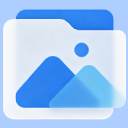
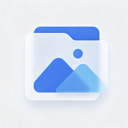
refactor: 更新

diff --git a/content.js b/content.js
@@ -1480,8 +1480,21 @@
     "mousedown",
     (e) => {
       if (e.button !== 1) return;
-      if (window.imgHidenSet === null) return;
-      // ★【修改2】阅兵模式下的中键由遮罩层事件处理，此处不干预
+      const isRedLight = window.imgHidenSet === null;
+
+      // 红灯状态下，hover和click逻辑上等同于middle
+      let effectiveZoomMode = zoomModeConfig;
+      if (
+        isRedLight &&
+        (zoomModeConfig === "hover" || zoomModeConfig === "click")
+      ) {
+        effectiveZoomMode = "middle";
+      }
+
+      // 红灯状态下，如果有效模式是关，直接返回（保留原生中键行为，如打开链接）
+      if (isRedLight && effectiveZoomMode === "off") return;
+
+      // 阅兵模式下的中键由遮罩层事件处理，此处不干预
       if (isParadeMode) return;
 
       const clone = getCloneAtPoint(e.clientX, e.clientY);
@@ -1494,26 +1507,67 @@
       }
 
       let targetEl = null;
-      imageControls.forEach((btn, el) => {
-        if (el._isZoomed) return;
-        const rect = el.getBoundingClientRect();
-        const margin = 10;
-        if (
-          e.clientX >= rect.left - margin &&
-          e.clientX <= rect.right + margin &&
-          e.clientY >= rect.top - margin &&
-          e.clientY <= rect.bottom + margin
-        ) {
-          targetEl = el;
+      if (isRedLight) {
+        // 红灯状态：动态遍历查找目标图片（因为此时 imageControls 被清空了）
+        const allEls = document.querySelectorAll(
+          'img, svg, .nopic-has-bg, [style*="background-image"]',
+        );
+        for (const el of allEls) {
+          if (
+            el._isZoomed ||
+            el.classList.contains("nopic-clone") ||
+            el.classList.contains("nopic-parade-clone")
+          )
+            continue;
+          const rect = el.getBoundingClientRect();
+          const margin = 10;
+          if (
+            e.clientX >= rect.left - margin &&
+            e.clientX <= rect.right + margin &&
+            e.clientY >= rect.top - margin &&
+            e.clientY <= rect.bottom + margin
+          ) {
+            const bg = window.getComputedStyle(el).backgroundImage;
+            const isTarget =
+              el.tagName === "IMG" ||
+              el.tagName === "SVG" ||
+              (bg && bg !== "none" && bg.includes("url"));
+            const hasText =
+              (el.tagName === "DIV" || el.tagName === "SPAN") &&
+              el.innerText != null &&
+              el.innerText.trim().length > 0;
+            if (isTarget && rect.width > 15 && rect.height > 15 && !hasText) {
+              targetEl = el;
+              break;
+            }
+          }
         }
-      });
+      } else {
+        // 绿灯状态：从控件记录中查找
+        imageControls.forEach((btn, el) => {
+          if (el._isZoomed) return;
+          const rect = el.getBoundingClientRect();
+          const margin = 10;
+          if (
+            e.clientX >= rect.left - margin &&
+            e.clientX <= rect.right + margin &&
+            e.clientY >= rect.top - margin &&
+            e.clientY <= rect.bottom + margin
+          ) {
+            targetEl = el;
+          }
+        });
+      }
 
-      if (targetEl && zoomModeConfig === "middle") {
+      if (targetEl && effectiveZoomMode === "middle") {
         e.preventDefault();
         e.stopPropagation();
+        // 红灯状态允许直接放大；绿灯状态按原逻辑判断
         const isHidden = targetEl.dataset.isHidden === "true";
         const shouldZoom =
-          hoverShowImgConfig || (!hoverShowImgConfig && !isHidden);
+          isRedLight ||
+          hoverShowImgConfig ||
+          (!hoverShowImgConfig && !isHidden);
         if (shouldZoom && !targetEl._isZoomed && !zoomCooldown) {
           const btn = imageControls.get(targetEl);
           const zoomBtn = imageZoomControls.get(targetEl);
@@ -1538,6 +1592,16 @@
     "auxclick",
     (e) => {
       if (e.button !== 1) return;
+      const isRedLight = window.imgHidenSet === null;
+
+      // 红灯状态下，hover和click逻辑上等同于middle
+      let effectiveZoomMode = zoomModeConfig;
+      if (
+        isRedLight &&
+        (zoomModeConfig === "hover" || zoomModeConfig === "click")
+      ) {
+        effectiveZoomMode = "middle";
+      }
 
       const clone = getCloneAtPoint(e.clientX, e.clientY);
       if (clone) {
@@ -1547,20 +1611,61 @@
       }
 
       let hitImage = false;
-      imageControls.forEach((btn, el) => {
-        const rect = el.getBoundingClientRect();
-        const margin = 10;
-        if (
-          e.clientX >= rect.left - margin &&
-          e.clientX <= rect.right + margin &&
-          e.clientY >= rect.top - margin &&
-          e.clientY <= rect.bottom + margin
-        ) {
-          hitImage = true;
+      if (isRedLight) {
+        // 红灯状态：动态遍历查找目标图片
+        const allEls = document.querySelectorAll(
+          'img, svg, .nopic-has-bg, [style*="background-image"]',
+        );
+        for (const el of allEls) {
+          if (
+            el.classList.contains("nopic-clone") ||
+            el.classList.contains("nopic-parade-clone")
+          )
+            continue;
+          const rect = el.getBoundingClientRect();
+          const margin = 10;
+          if (
+            e.clientX >= rect.left - margin &&
+            e.clientX <= rect.right + margin &&
+            e.clientY >= rect.top - margin &&
+            e.clientY <= rect.bottom + margin
+          ) {
+            const bg = window.getComputedStyle(el).backgroundImage;
+            const isTarget =
+              el.tagName === "IMG" ||
+              el.tagName === "SVG" ||
+              (bg && bg !== "none" && bg.includes("url"));
+            const hasText =
+              (el.tagName === "DIV" || el.tagName === "SPAN") &&
+              el.innerText != null &&
+              el.innerText.trim().length > 0;
+            if (isTarget && rect.width > 15 && rect.height > 15 && !hasText) {
+              hitImage = true;
+              break;
+            }
+          }
         }
-      });
+      } else {
+        imageControls.forEach((btn, el) => {
+          const rect = el.getBoundingClientRect();
+          const margin = 10;
+          if (
+            e.clientX >= rect.left - margin &&
+            e.clientX <= rect.right + margin &&
+            e.clientY >= rect.top - margin &&
+            e.clientY <= rect.bottom + margin
+          ) {
+            hitImage = true;
+          }
+        });
+      }
 
-      if (hitImage) {
+      // 红灯状态下且有效模式为中键，也需阻止超链接新标签页打开
+      if (
+        hitImage &&
+        (window.imgHidenSet !== null ||
+          (isRedLight && effectiveZoomMode === "middle"))
+      ) {
         e.preventDefault();
         e.stopPropagation();
       }
@@ -2212,19 +2317,39 @@
     settingsSubmenu
       .querySelector('[data-key="zoomPinMode"]')
       .classList.toggle("on", zoomPinModeConfig);
+    const hoverZoomBtn = settingsSubmenu.querySelector(
+      '.nopic-range-btn[data-zoom="hover"]',
+    );
     const clickZoomBtn = settingsSubmenu.querySelector(
       '.nopic-range-btn[data-zoom="click"]',
     );
-    if (clickZoomBtn)
-      clickZoomBtn.style.display = hoverShowImgConfig ? "none" : "";
-    if (hoverShowImgConfig && zoomModeConfig === "click") {
-      zoomModeConfig = "hover";
-      setLocalConfig("zoomMode", zoomModeConfig);
+    const isRedLight = window.imgHidenSet === null;
+
+    let activeZoomMode = zoomModeConfig;
+
+    if (isRedLight) {
+      // 红灯状态：隐藏悬停和点击选项
+      if (hoverZoomBtn) hoverZoomBtn.style.display = "none";
+      if (clickZoomBtn) clickZoomBtn.style.display = "none";
+      // 如果原始配置是悬停或点击，只在UI上临时显示为中键，绝不改写 zoomModeConfig，保留原始记忆
+      if (zoomModeConfig === "hover" || zoomModeConfig === "click") {
+        activeZoomMode = "middle";
+      }
+    } else {
+      // 绿灯状态：恢复显示逻辑
+      if (hoverZoomBtn) hoverZoomBtn.style.display = "";
+      if (clickZoomBtn)
+        clickZoomBtn.style.display = hoverShowImgConfig ? "none" : "";
+      if (hoverShowImgConfig && zoomModeConfig === "click") {
+        zoomModeConfig = "hover";
+        setLocalConfig("zoomMode", zoomModeConfig);
+        activeZoomMode = "hover";
+      }
     }
     settingsSubmenu
       .querySelectorAll(".nopic-range-btn[data-zoom]")
       .forEach((btn) =>
-        btn.classList.toggle("active", btn.dataset.zoom === zoomModeConfig),
+        btn.classList.toggle("active", btn.dataset.zoom === activeZoomMode),
       );
     settingsSubmenu
       .querySelectorAll(".nopic-range-btn[data-leave]")
@@ -2981,6 +3106,7 @@
         localStorage.setItem("nopicValueList", list.join(","));
       }
       updateLampState();
+      updateAllUI(); // 新增：切换灯状态时刷新UI，动态显隐放大选项
       updateContent();
     }
     localStorage.setItem(
@@ -3031,6 +3157,7 @@
       imgHiden();
       window.imgHidenSet = setInterval(imgHiden, 500);
       updateLampState();
+      updateAllUI(); // 新增：切换灯状态时刷新UI，动态显隐放大选项
       updateContent();
     }
   })();